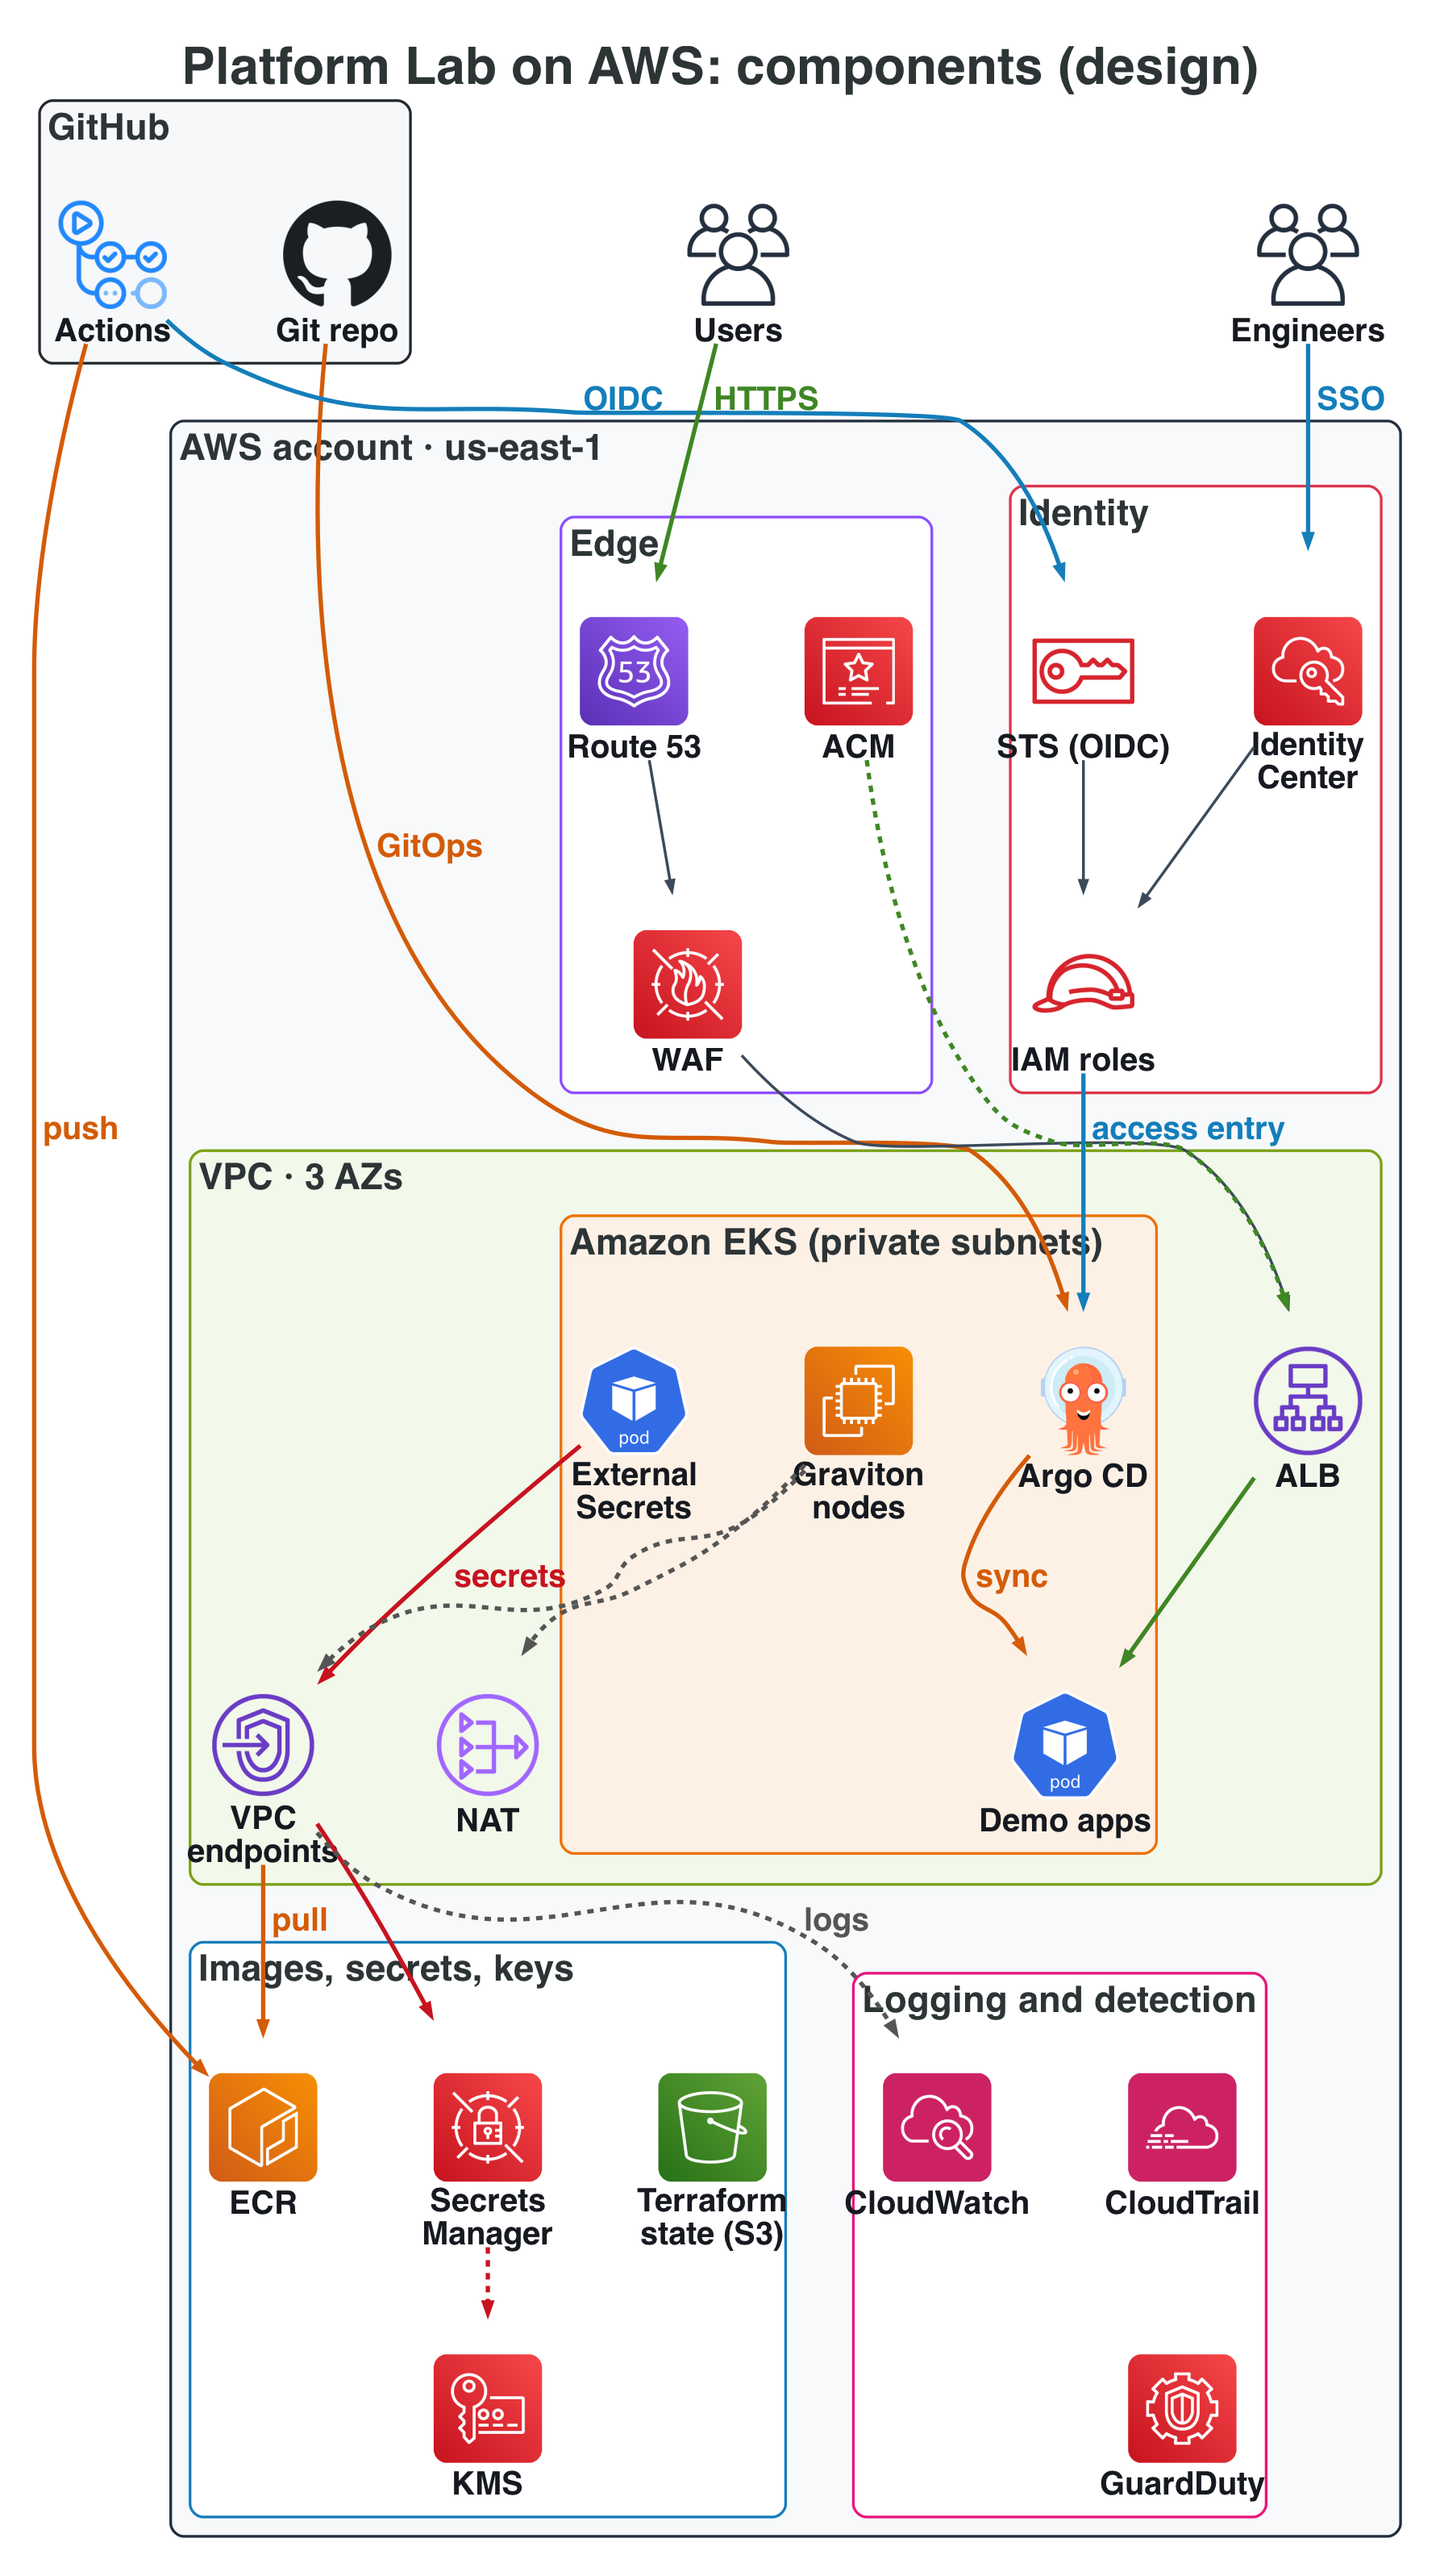
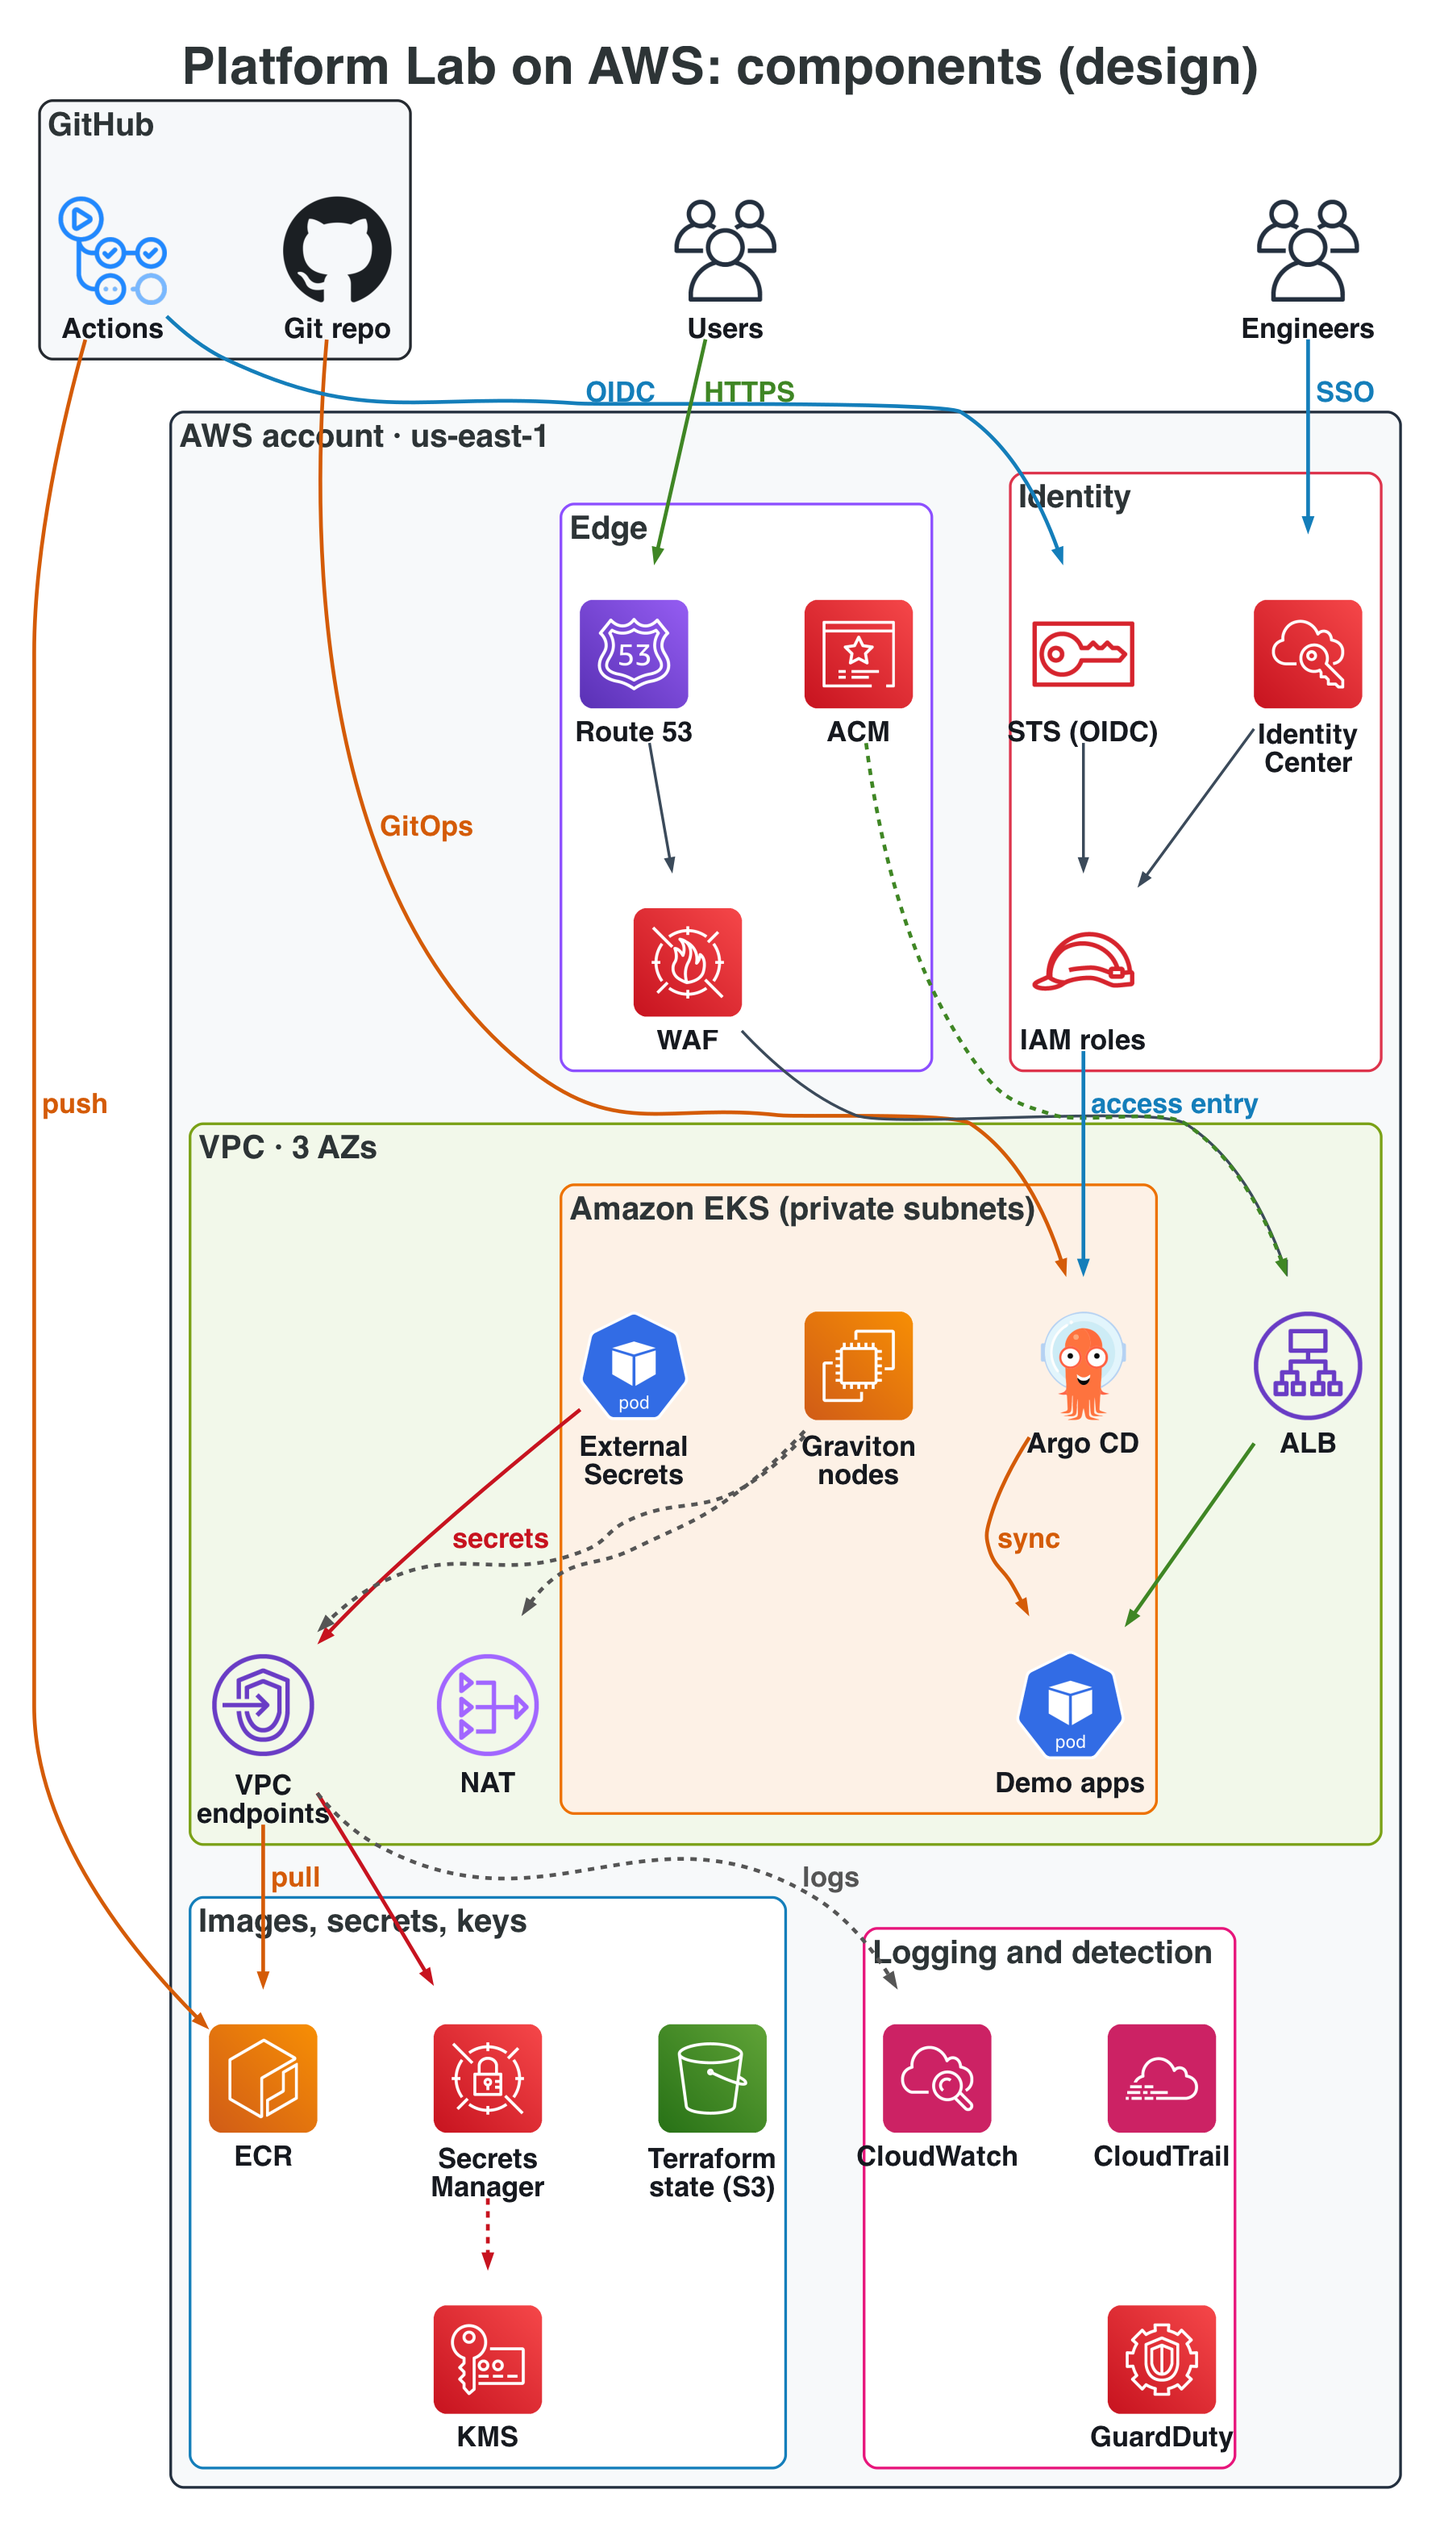
AWS component diagram slightly smaller (26pt, 70% width); shared diagram style module

diff --git a/docs/diagrams/aws_architecture.py b/docs/diagrams/aws_architecture.py
@@ -9,8 +9,7 @@ Writes PNGs to docs/images/aws/. Design only; see docs/aws-architecture.md.
 """
 from pathlib import Path
 
-import diagrams
-from diagrams import Cluster, Diagram, Edge
+from diagrams import Cluster, Edge
 from diagrams.aws.compute import EC2, ECR, EKS, Lambda
 from diagrams.aws.general import Users
 from diagrams.aws.management import Cloudtrail, Cloudwatch
@@ -27,57 +26,32 @@ from diagrams.onprem.gitops import ArgoCD
 from diagrams.onprem.iac import Terraform
 from diagrams.onprem.vcs import Github
 
-# diagrams sizes each node from its label's line count (explicit `height` is
-# overridden). A leading blank line buys one line of space between icon and
-# label, so larger fonts no longer overlap the icon.
-_node_init = diagrams.Node.__init__
-def _padded_init(self, label="", *args, **kwargs):
-    pad = "\n" * (label.count("\n") + 1)   # multi-line labels need proportionally more room
-    _node_init(self, pad + label if label else label, *args, **kwargs)
-diagrams.Node.__init__ = _padded_init
+import importlib.util
+
+_spec = importlib.util.spec_from_file_location("_style", Path(__file__).with_name("_style.py"))
+_style = importlib.util.module_from_spec(_spec); _spec.loader.exec_module(_style)
+from functools import partial
+CLUSTER, FLOW, GREEN, BLUE, ORANGE, RED, PURPLE = (_style.CLUSTER, _style.FLOW, _style.GREEN,
+                                                    _style.BLUE, _style.ORANGE, _style.RED, _style.PURPLE)
+AWS_CLOUD, REGION, VPC_STYLE, PUBLIC, PRIVATE, EKS_STYLE, NEUTRAL, GITHUB = (
+    _style.AWS_CLOUD, _style.REGION, _style.VPC_STYLE, _style.PUBLIC, _style.PRIVATE,
+    _style.EKS_STYLE, _style.NEUTRAL, _style.GITHUB)
 
 OUT = Path(__file__).resolve().parent.parent / "images" / "aws"
 OUT.mkdir(parents=True, exist_ok=True)
-
-# Large, high-contrast styling: readable in GitHub light and dark mode.
-# Curved splines keep edge labels on their edges (orthogonal routing scatters them).
-GRAPH = {"fontsize": "40", "fontname": "Helvetica Bold", "bgcolor": "white", "pad": "0.6",
-         "nodesep": "1.0", "ranksep": "1.4", "dpi": "110", "labelloc": "t", "splines": "spline"}
-NODE = {"fontsize": "22", "fontname": "Helvetica", "fontcolor": "#16191f"}
-EDGE = {"fontsize": "24", "fontname": "Helvetica Bold", "fontcolor": "#16191f", "penwidth": "2.6", "color": "#3b4a5a"}
-CLUSTER = lambda bg, border: {"fontsize": "28", "fontname": "Helvetica Bold", "bgcolor": bg,
-                              "pencolor": border, "penwidth": "2.5", "margin": "24", "style": "rounded"}
-
-AWS_CLOUD = CLUSTER("#f7f9fa", "#232f3e")
-REGION = CLUSTER("#ffffff", "#147eba")
-VPC_STYLE = CLUSTER("#f2f8ea", "#7aa116")
-PUBLIC = CLUSTER("#e9f3e6", "#7aa116")
-PRIVATE = CLUSTER("#e6f2f8", "#147eba")
-EKS_STYLE = CLUSTER("#fdf1e6", "#ed7100")
-NEUTRAL = CLUSTER("#f4f4f4", "#8c8c8c")
-GITHUB = CLUSTER("#f6f8fa", "#24292f")
-
-FLOW = lambda label, color="#3b4a5a", style="solid": Edge(
-    label=f"  {label}  " if label else "", color=color, fontcolor=color, style=style, penwidth="3",
-    fontsize="24", fontname="Helvetica Bold")
-ORANGE, BLUE, GREEN, RED, PURPLE = "#d45b07", "#147eba", "#3f8624", "#c7131f", "#7b3fbf"
-
-
-def diagram(name, title, direction="LR", graph=None, node=None):
-    return Diagram(title, filename=str(OUT / name), outformat="png", show=False, direction=direction,
-                   graph_attr={**GRAPH, **(graph or {})}, node_attr={**NODE, **(node or {})}, edge_attr=EDGE)
+diagram = partial(_style.diagram, OUT)
 
 
 # 1. Overview -----------------------------------------------------------------
 # Compact top-to-bottom layout: GitHub embeds images at page width, so the
 # canvas must stay small for large fonts to remain legible after scaling.
-BIG = lambda bg, border: {**CLUSTER(bg, border), "fontsize": "34", "margin": "18"}
+BIG = lambda bg, border: {**CLUSTER(bg, border), "fontsize": "30", "margin": "18"}
 BIGFLOW = lambda label, color="#3b4a5a", style="solid": Edge(
     label=f" {label} " if label else "", color=color, fontcolor=color, style=style,
-    penwidth="4", fontsize="30", fontname="Helvetica Bold")
+    penwidth="3.5", fontsize="26", fontname="Helvetica Bold")
 with diagram("aws-overview", "Platform Lab on AWS: components (design)", direction="TB",
              graph={"fontsize": "48", "nodesep": "1.5", "ranksep": "0.9", "pad": "0.4", "dpi": "96"},
-             node={"fontsize": "30", "fontname": "Helvetica Bold"}):
+             node={"fontsize": "26", "fontname": "Helvetica Bold"}):
     with Cluster("GitHub", graph_attr=BIG("#f6f8fa", "#24292f")):
         repo = Github("Git repo")
         actions = GithubActions("Actions")

diff --git a/docs/diagrams/_style.py b/docs/diagrams/_style.py
@@ -1,0 +1,43 @@
+"""Shared styling for the architecture diagrams (loaded by path, so the
+scripts also work with `python -I`)."""
+import diagrams
+from diagrams import Diagram, Edge
+
+# diagrams sizes each node from its label's line count (explicit `height` is
+# overridden). A leading blank line buys one line of space between icon and
+# label, so larger fonts no longer overlap the icon.
+_node_init = diagrams.Node.__init__
+def _padded_init(self, label="", *args, **kwargs):
+    pad = "\n" * (label.count("\n") + 1)   # multi-line labels need proportionally more room
+    _node_init(self, pad + label if label else label, *args, **kwargs)
+diagrams.Node.__init__ = _padded_init
+
+# Large, high-contrast styling: readable in GitHub light and dark mode.
+# Curved splines keep edge labels on their edges (orthogonal routing scatters them).
+GRAPH = {"fontsize": "40", "fontname": "Helvetica Bold", "bgcolor": "white", "pad": "0.6",
+         "nodesep": "1.0", "ranksep": "1.4", "dpi": "110", "labelloc": "t", "splines": "spline"}
+NODE = {"fontsize": "22", "fontname": "Helvetica", "fontcolor": "#16191f"}
+EDGE = {"fontsize": "24", "fontname": "Helvetica Bold", "fontcolor": "#16191f", "penwidth": "2.6", "color": "#3b4a5a"}
+CLUSTER = lambda bg, border: {"fontsize": "28", "fontname": "Helvetica Bold", "bgcolor": bg,
+                              "pencolor": border, "penwidth": "2.5", "margin": "24", "style": "rounded"}
+
+AWS_CLOUD = CLUSTER("#f7f9fa", "#232f3e")
+REGION = CLUSTER("#ffffff", "#147eba")
+VPC_STYLE = CLUSTER("#f2f8ea", "#7aa116")
+PUBLIC = CLUSTER("#e9f3e6", "#7aa116")
+PRIVATE = CLUSTER("#e6f2f8", "#147eba")
+EKS_STYLE = CLUSTER("#fdf1e6", "#ed7100")
+NEUTRAL = CLUSTER("#f4f4f4", "#8c8c8c")
+GITHUB = CLUSTER("#f6f8fa", "#24292f")
+
+FLOW = lambda label, color="#3b4a5a", style="solid": Edge(
+    label=f"  {label}  " if label else "", color=color, fontcolor=color, style=style, penwidth="3",
+    fontsize="24", fontname="Helvetica Bold")
+ORANGE, BLUE, GREEN, RED, PURPLE = "#d45b07", "#147eba", "#3f8624", "#c7131f", "#7b3fbf"
+
+
+def diagram(out, name, title, direction="LR", graph=None, node=None):
+    return Diagram(title, filename=str(out / name), outformat="png", show=False, direction=direction,
+                   graph_attr={**GRAPH, **(graph or {})}, node_attr={**NODE, **(node or {})}, edge_attr=EDGE)
+
+

diff --git a/docs/aws-architecture.md b/docs/aws-architecture.md
@@ -13,7 +13,7 @@ secrets and keys, ingress, and logging.
 
 ## 1. Components
 
-<a href="images/aws/aws-overview.png"><img src="images/aws/aws-overview.png" alt="AWS overview: GitHub, Identity Center, VPC, EKS, ECR, Secrets Manager, KMS, CloudWatch" width="100%"></a>
+<p align="center"><a href="images/aws/aws-overview.png"><img src="images/aws/aws-overview.png" alt="AWS overview: GitHub, Identity Center, VPC, EKS, ECR, Secrets Manager, KMS, CloudWatch" width="70%"></a></p>
 
 ## 2. Network and routing
 
